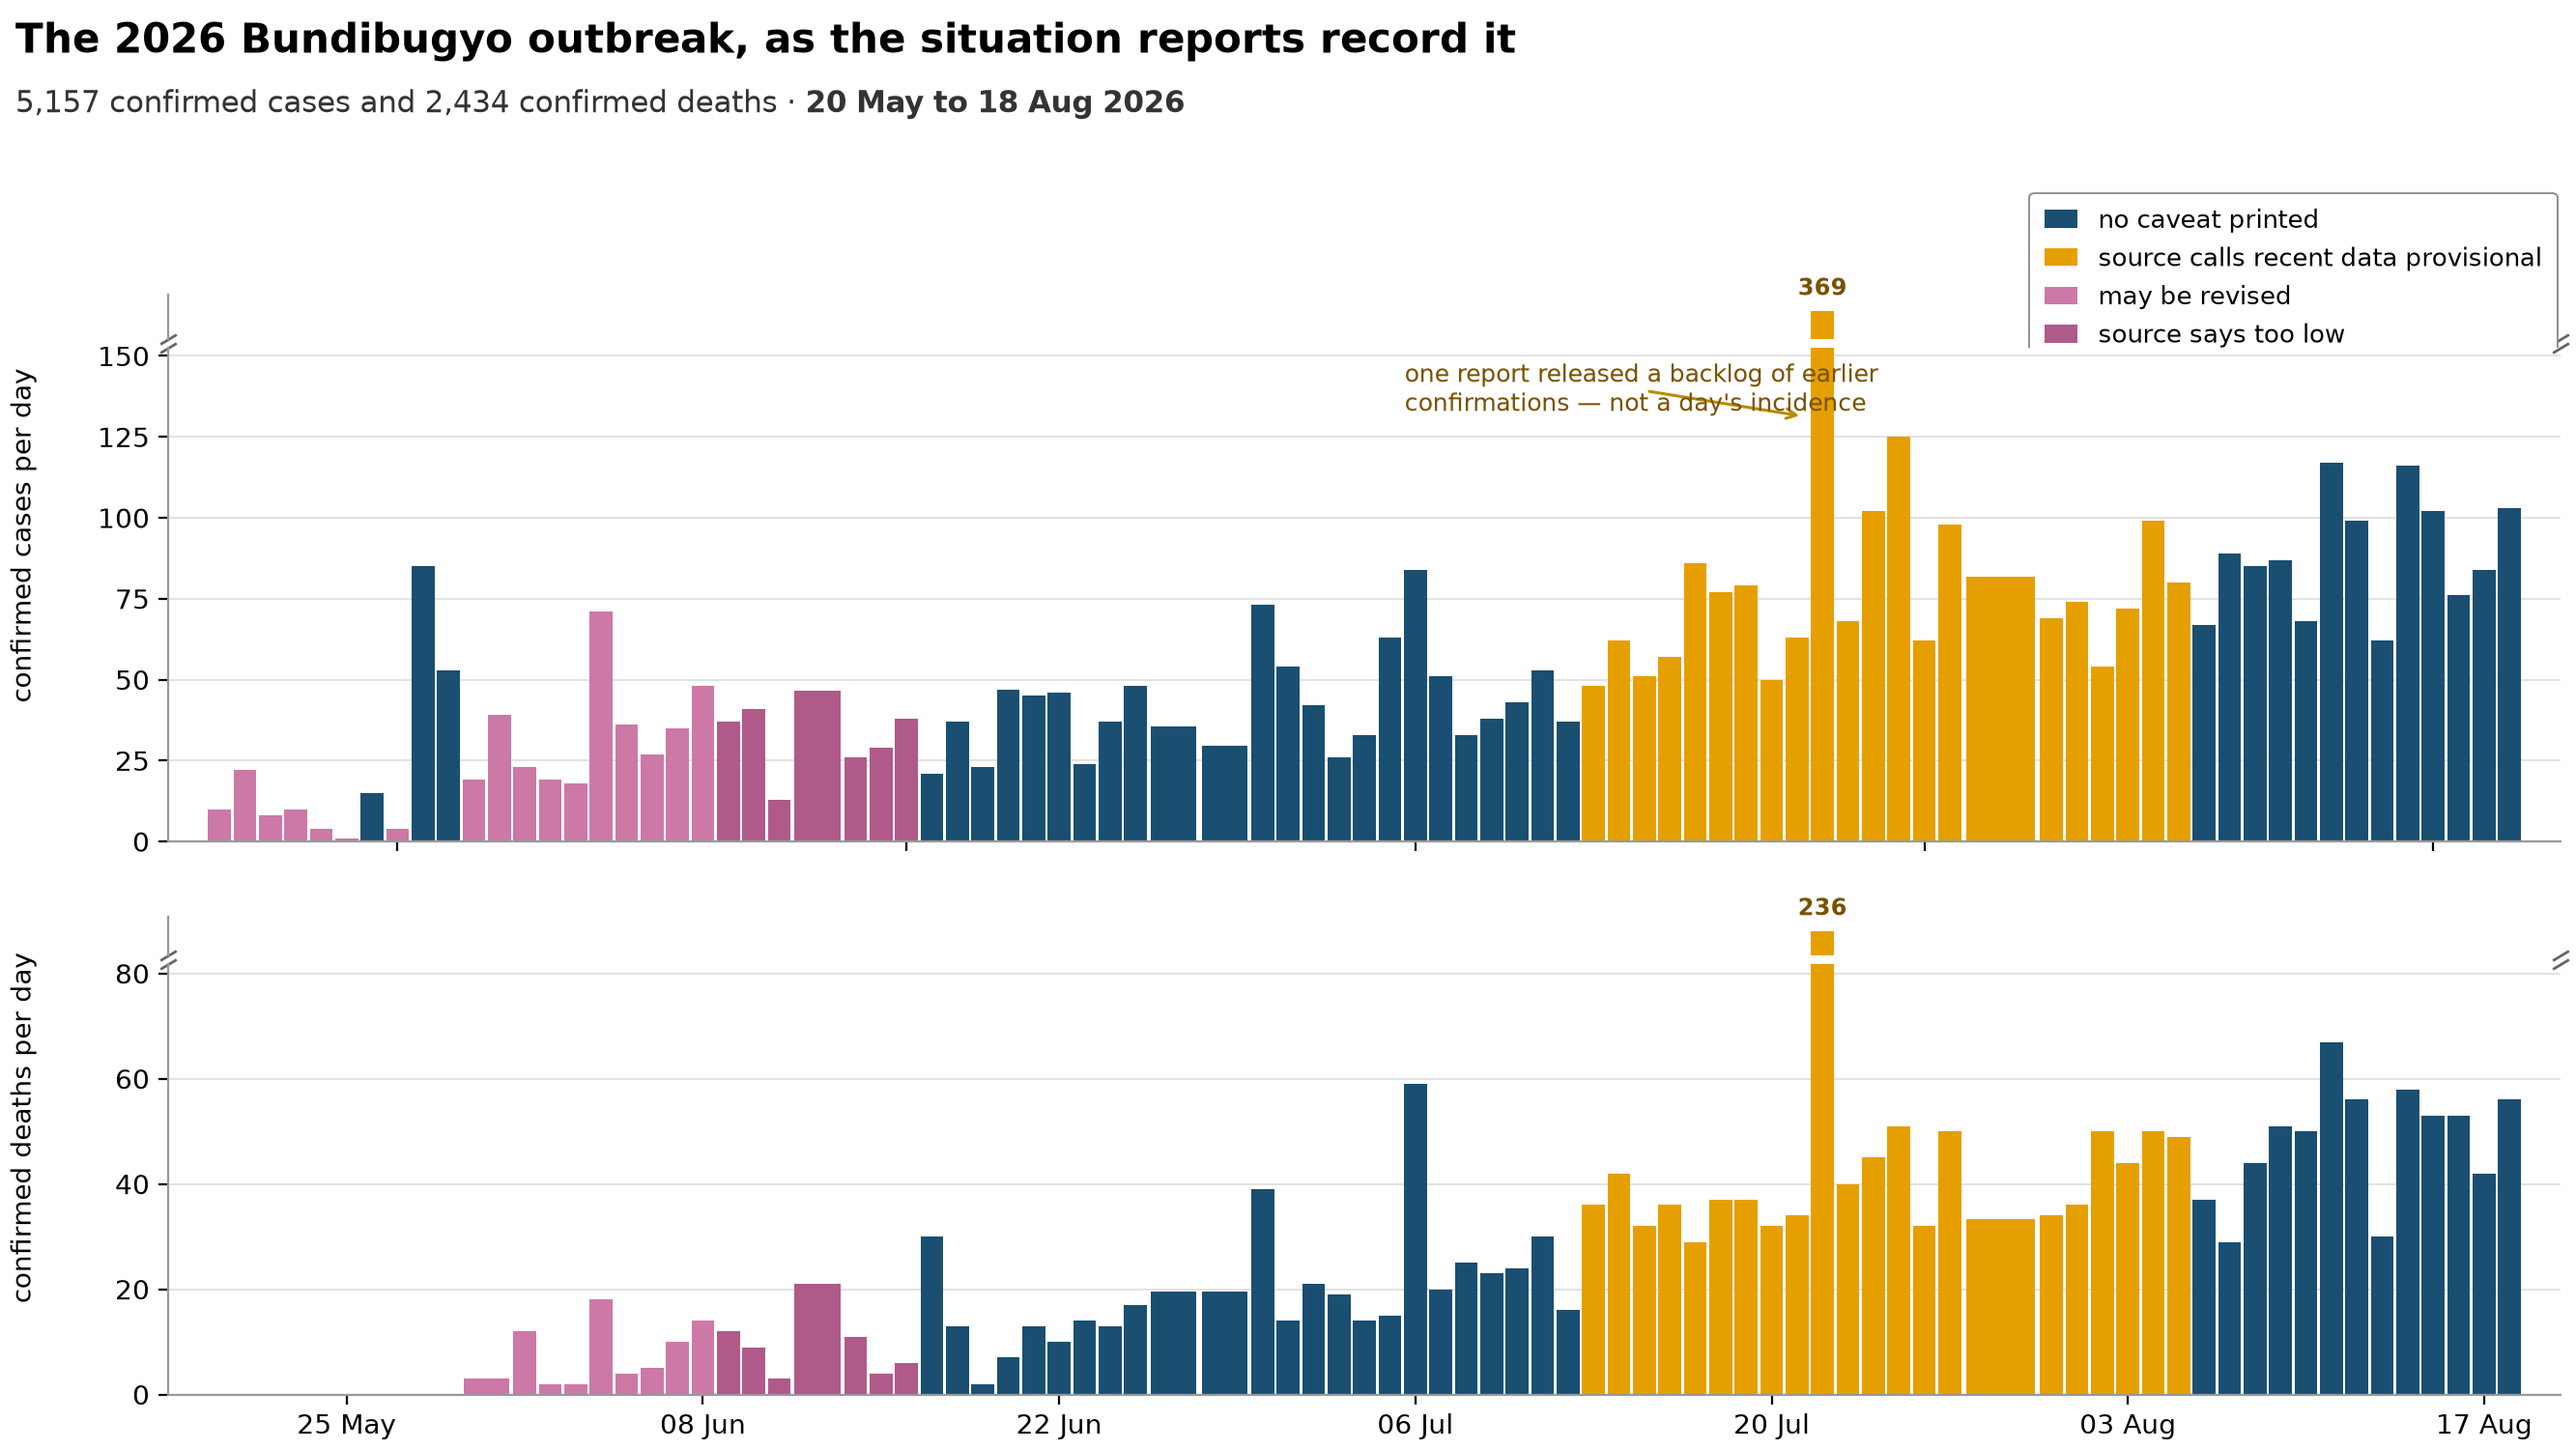
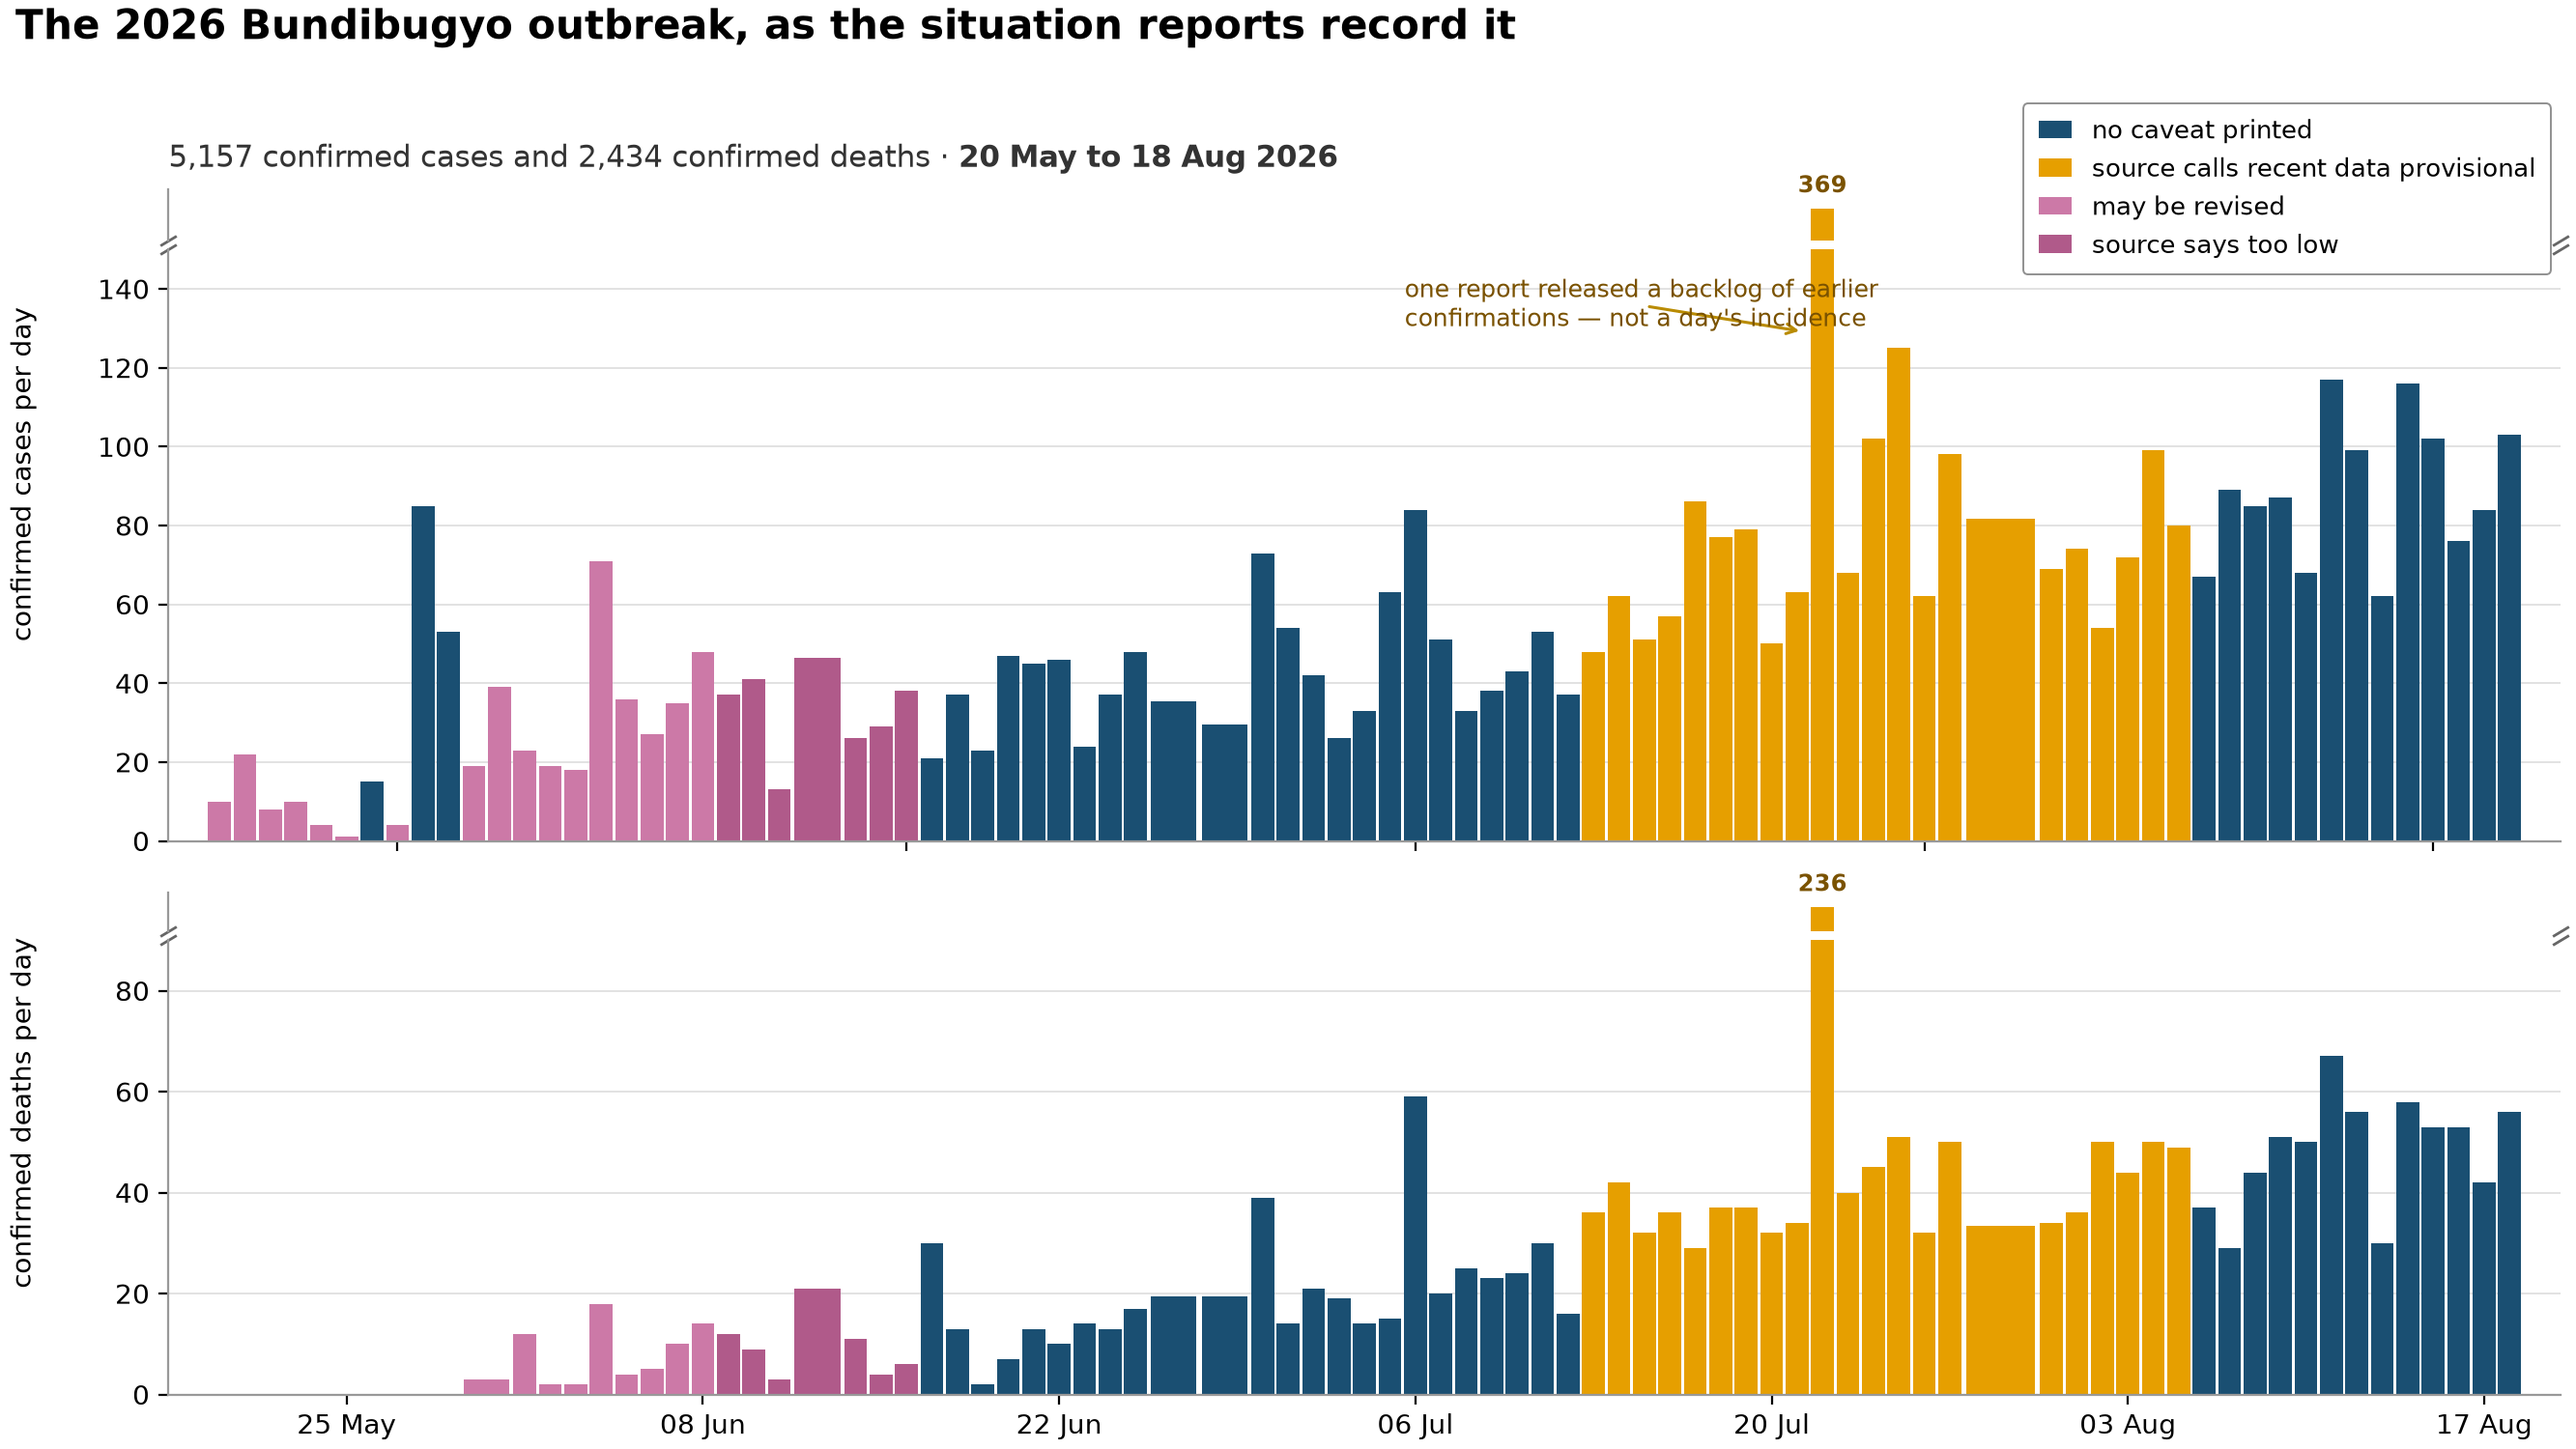
epi_curve: adopt the ascertainment figure's header layout
Three fixes to the same underlying problem -- the header was being laid out
against axes that later moved.

The pinning ran the wrong way. Dropping each upper segment down to meet its
lower one left a hole where it had been, which is where the white space at
the top came from. The lower segment is now raised to meet the upper one
instead, keeping its own bottom edge fixed, so no gap opens anywhere.

The legend is created AFTER that pinning and anchored to the plot area's real
top edge, measured rather than guessed. Anchored to an axes that then moved,
it had been clipped.

The axis top now lands half a gridline step above the last tick, so the break
mark cannot collide with a tick label -- which is what put it on top of the
80 in the deaths panel.

Verified deterministic across three builds despite both the manual layout
pass and the measured legend position.

Claude-Session: https://claude.ai/code/session_015tkmBJ2UNKTmshByKopqW2

diff --git a/scripts/plot_figures.py b/scripts/plot_figures.py
@@ -32,6 +32,7 @@ from __future__ import annotations
 
 import argparse
 import datetime as dt
+import math
 import sys
 from pathlib import Path
 
@@ -520,7 +521,13 @@ def draw_epi_curve(inputs: dict[str, Path], out: Path) -> None:
         edge = [mdates.date2num(x) + 0.5 for x in df["time"].to_list()]
         xs = [e - w / 2 for e, w in zip(edge, span)]
         ys = [c / w for c, w in zip(df[col].to_list(), span)]
-        cut = 1.22 * max(sorted(ys)[:-1])       # ignore the single outlier
+        # The axis top sits half a gridline step above the last tick: it
+        # keeps the headroom tight AND guarantees the break mark never lands
+        # on a tick label, which is what happened when the top was a bare
+        # multiple of the data range.
+        bulk = max(sorted(ys)[:-1])             # ignore the single outlier
+        step = _nice_step(bulk * 1.12)
+        cut = (math.ceil(bulk / step) + 0.5) * step
         peak = max(ys)
 
         for ax in (hi, lo):
@@ -541,7 +548,6 @@ def draw_epi_curve(inputs: dict[str, Path], out: Path) -> None:
         # The upper segment is 1/BREAK_RATIO of the lower's height, so it
         # gets 1/BREAK_RATIO of its data range, and one tick interval is then
         # the same distance in both.
-        step = _nice_step(cut)
         hi_range = cut / BREAK_RATIO
         lo.set_ylim(0, cut)
         hi.set_ylim(peak - hi_range * 0.62, peak + hi_range * 0.38)
@@ -597,26 +603,20 @@ def draw_epi_curve(inputs: dict[str, Path], out: Path) -> None:
     handles = [plt.Rectangle((0, 0), 1, 1, facecolor=FLAG_COLOR[f],
                              label=FLAG_LABEL[f])
                for f in FLAG_COLOR if f in seen]
-    leg = c_hi.legend(handles=handles, loc="center right",
-                      bbox_to_anchor=(1.004, 1.35), fontsize=9.5, frameon=True,
-                      framealpha=0.95, facecolor="white", edgecolor="#8a8a8a",
-                      borderpad=0.6, ncol=1, labelspacing=0.5,
-                      handlelength=1.3)
-    leg.get_frame().set_linewidth(0.7)
 
     tot_c = int(cases["cases_national"].sum())
     tot_d = int(deaths["deaths_national"].sum())
-    # Headline and its subtitle are one block, set together at the top left;
-    # hung off the first axes the subtitle reads as that panel's label.
-    fig.get_layout_engine().set(rect=(0, 0, 1, 0.905))
+    # Same header block as the ascertainment figure: headline, subtitle just
+    # beneath it, and the legend floating across the top axes boundary so it
+    # occupies space that is otherwise empty in both the header and the panel.
+    fig.get_layout_engine().set(rect=(0, 0, 1, 0.945))
     fig.suptitle("The 2026 Bundibugyo outbreak, as the situation reports "
-                 "record it", x=0.006, y=0.985, ha="left", va="top",
-                 fontsize=15, fontweight="bold")
-    fig.text(0.006, 0.938,
-             f"{tot_c:,} confirmed cases and {tot_d:,} confirmed deaths · "
-             f"$\\bf{{{cases['time'].min():%d\\ %b}\\ to\\ "
-             f"{cases['time'].max():%d\\ %b\\ %Y}}}$",
-             ha="left", va="top", fontsize=11, color="#333333")
+                 "record it", x=0.006, ha="left", fontsize=15,
+                 fontweight="bold")
+    c_hi.set_title(f"{tot_c:,} confirmed cases and {tot_d:,} confirmed deaths"
+                   f" · $\\bf{{{cases['time'].min():%d\\ %b}\\ to\\ "
+                   f"{cases['time'].max():%d\\ %b\\ %Y}}}$",
+                   loc="left", fontsize=11, color="#333333", pad=8)
     # constrained_layout owns inter-axes spacing and overrides a subgridspec
     # hspace, so the two halves of each break are pinned by hand once it has
     # run: freeze the engine, then drop each upper segment to sit a hair above
@@ -627,7 +627,18 @@ def draw_epi_curve(inputs: dict[str, Path], out: Path) -> None:
     GAP = 0.006                      # figure fraction
     for hi, lo in ((c_hi, c_lo), (d_hi, d_lo)):
         lp, hp = lo.get_position(), hi.get_position()
-        hi.set_position([lp.x0, lp.y1 + GAP, lp.width, hp.height])
+        lo.set_position([lp.x0, lp.y0, lp.width, hp.y0 - GAP - lp.y0])
+
+    # The legend straddles the real top edge of the plot area -- computed
+    # after the pinning above, not guessed -- so it fills space that is empty
+    # in both the header and the panel, as in the ascertainment figure.
+    leg = fig.legend(handles=handles, loc="center right",
+                     bbox_to_anchor=(0.995, c_hi.get_position().y1),
+                     bbox_transform=fig.transFigure, fontsize=9.5,
+                     frameon=True, framealpha=0.95, facecolor="white",
+                     edgecolor="#8a8a8a", borderpad=0.6, ncol=1,
+                     labelspacing=0.5, handlelength=1.3)
+    leg.get_frame().set_linewidth(0.7)
 
     out.parent.mkdir(parents=True, exist_ok=True)
     fig.savefig(out, dpi=200)
